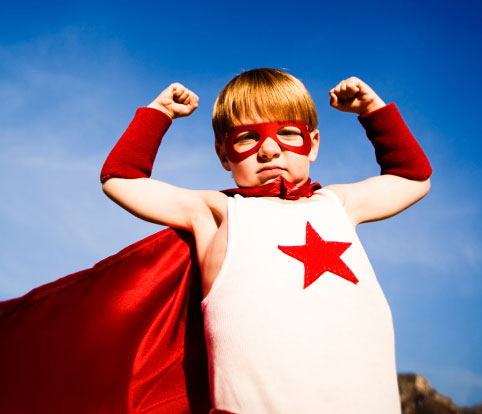
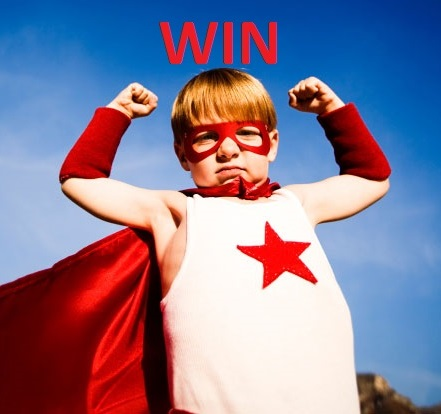
2048

diff --git a/2048/app.js b/2048/app.js
@@ -6,6 +6,14 @@ const tr = document.createElement('tr');
 const td = document.createElement('td');
 
 
+const imgWrap = document.createElement('div');
+
+const h1 = document.createElement('h1');
+let newH1 = h1.cloneNode(false);
+newH1.innerText = '2048';
+document.body.appendChild(newH1);
+
+
 for(let i = 0; i < LENGTH; i++){
     let newTr = tr.cloneNode(true);
     for(let j = 0; j < LENGTH; j++){
@@ -34,7 +42,7 @@ document.body.appendChild(table);
 
 
 function getKey() {
-    var key = event.keyCode;
+    let key = event.keyCode;
 
     let move = false;
     switch(key){
@@ -58,7 +66,12 @@ function getKey() {
 
     if(ifNotExistFreeCells()){
         if(ifNotExistNeighborSimilarCells()){
-            alert('GAME OVER');
+            table.hidden = true;
+            imgWrap.classList.add('img-wrap');
+            const image = document.createElement('img');
+            image.setAttribute('src', 'images/lose.jpg');
+            imgWrap.appendChild(image);
+            document.body.appendChild(imgWrap);
         }
     }
 
@@ -76,11 +89,12 @@ function ifPeremoga() {
     for(let i = 0; i < LENGTH; ++i){
         for(let j = 0; j < LENGTH; ++j){
             if(table.rows[i].cells[j].innerText === '2048'){
-               /* const imgWrap = document.createElement('div');
+                table.hidden = true;
+                imgWrap.classList.add('img-wrap');
                 const image = document.createElement('img');
                 image.setAttribute('src', 'images/win.jpg');
-                imgWrap.appendChild(image);*/
-               alert('PEREMOGA!!!!!');
+                imgWrap.appendChild(image);
+                document.body.appendChild(imgWrap);
 
             }
         }
@@ -119,7 +133,7 @@ function ifNotExistNeighborSimilarCells() {
 
 function ifExistEmptyCellBefore37() {
 
-    var move = false;
+    let move = false;
     for (let i = 0; i < LENGTH; ++i) {
         for (let a = 0; a < LENGTH; ++a) {
             for (let j = 1; j < LENGTH - a; ++j) {
@@ -142,7 +156,7 @@ function ifExistEmptyCellBefore37() {
 
 
 function ifExistFullSimmilarCellBefore37() {
-    var move = false;
+    let move = false;
     for (let i = 0; i < LENGTH; ++i) {
         for (let j = 1; j < LENGTH; ++j) {
             if (table.rows[i].cells[j].innerText) {
@@ -164,7 +178,7 @@ function ifExistFullSimmilarCellBefore37() {
 
 function ifExistEmptyCellBefore38() {
 
-    var move = false;
+    let move = false;
     for (let i = 0; i < LENGTH; ++i) {
         for (let a = 0; a < LENGTH; ++a) {
             for (let j = 1; j < LENGTH - a; ++j) {
@@ -186,7 +200,7 @@ function ifExistEmptyCellBefore38() {
 
 
 function ifExistFullSimmilarCellBefore38() {
-    var move = false;
+    let move = false;
     for (let i = 0; i < LENGTH; ++i) {
         for (let j = 1; j < LENGTH; ++j) {
             if (table.rows[j].cells[i].innerText) {
@@ -207,7 +221,7 @@ function ifExistFullSimmilarCellBefore38() {
 }
 
 function ifExistEmptyCellBefore39(){
-    var move = false;
+    let move = false;
     let nolik;
     for (let i = 0; i < LENGTH; ++i) {
         for (let a = 0; a < LENGTH; ++a) {
@@ -230,7 +244,7 @@ function ifExistEmptyCellBefore39(){
 }
 
 function ifExistFullSimmilarCellBefore39(){
-    var move = false;
+    let move = false;
     for (let i = 0; i < LENGTH; ++i) {
         for (let j = LENGTH - 2; j >= 0; --j) {
             if (table.rows[i].cells[j].innerText) {
@@ -252,7 +266,7 @@ function ifExistFullSimmilarCellBefore39(){
 
 
 function ifExistEmptyCellBefore40() {
-    var move = false;
+    let move = false;
     let nolik;
     for (let i = 0; i < LENGTH; ++i) {
         for (let a = 0; a < LENGTH; ++a) {
@@ -276,7 +290,7 @@ function ifExistEmptyCellBefore40() {
 
 
 function ifExistFullSimmilarCellBefore40() {
-    var move = false;
+    let move = false;
     for (let i = 0; i < LENGTH; ++i) {
         for (let j = LENGTH - 2; j >= 0; --j) {
             if (table.rows[j].cells[i].innerText) {
@@ -299,7 +313,7 @@ function ifExistFullSimmilarCellBefore40() {
 
 function findRowsWithFreeCells() {
 
-    var arr = [];
+    let arr = [];
     let counter = 0;
     for(let i = 0; i < LENGTH; ++i){
         for(let j = 0; j < LENGTH; ++j){
@@ -315,7 +329,7 @@ function findRowsWithFreeCells() {
 
 function findLocationOfFreeCells(NumberOfRow){
 
-    var arr = [];
+    let arr = [];
     let counter = 0;
     for(let i = 0; i < LENGTH; ++i){
         if(!table.rows[NumberOfRow].cells[i].innerText){

diff --git a/2048/index.html b/2048/index.html
@@ -7,7 +7,7 @@
             width: 100px;
             height: 100px;
             border-radius: 5%;
-        //border: 1px solid black;
+            //border: 1px solid black;
             text-align: center;
             color: black;
             font-family: Calibri;
@@ -16,8 +16,24 @@
 
         table {
             background-color: gray;
+            border-radius: 1%;
+            margin: 20px auto;
         }
 
+        h1{
+            text-align: center;
+        }
+
+        .img-wrap {
+            display: block;
+            margin: 20px auto;
+            width: 420px;
+            height: 410px;
+            border: 1px solid silver;
+            border-radius: 5px;
+            //text-align: center;
+            overflow: hidden;
+        }
         .empty {
             background-color: lightgray;
         }
@@ -74,6 +90,7 @@
     <title>Game 2048</title>
 </head>
 <body onkeyup="getKey()">
+
 
 <script src="app.js"></script>
 </body>
